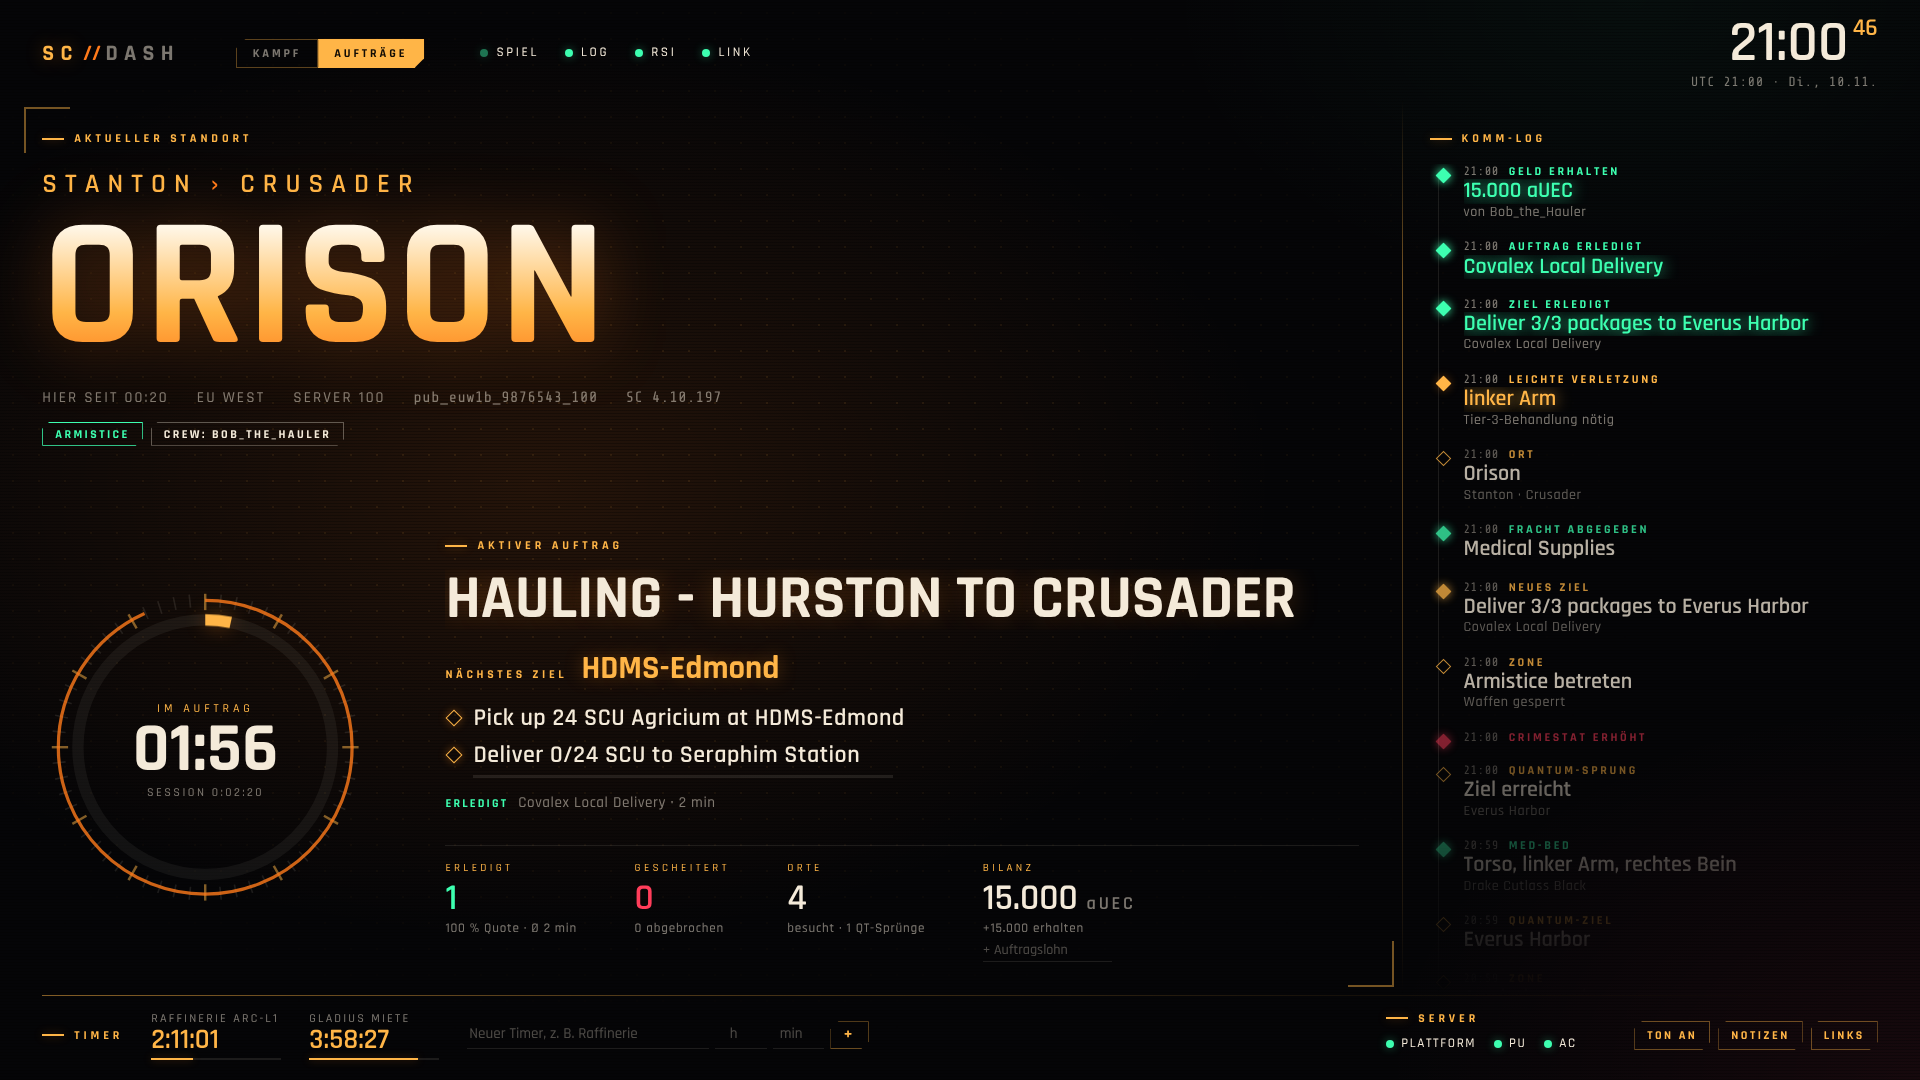
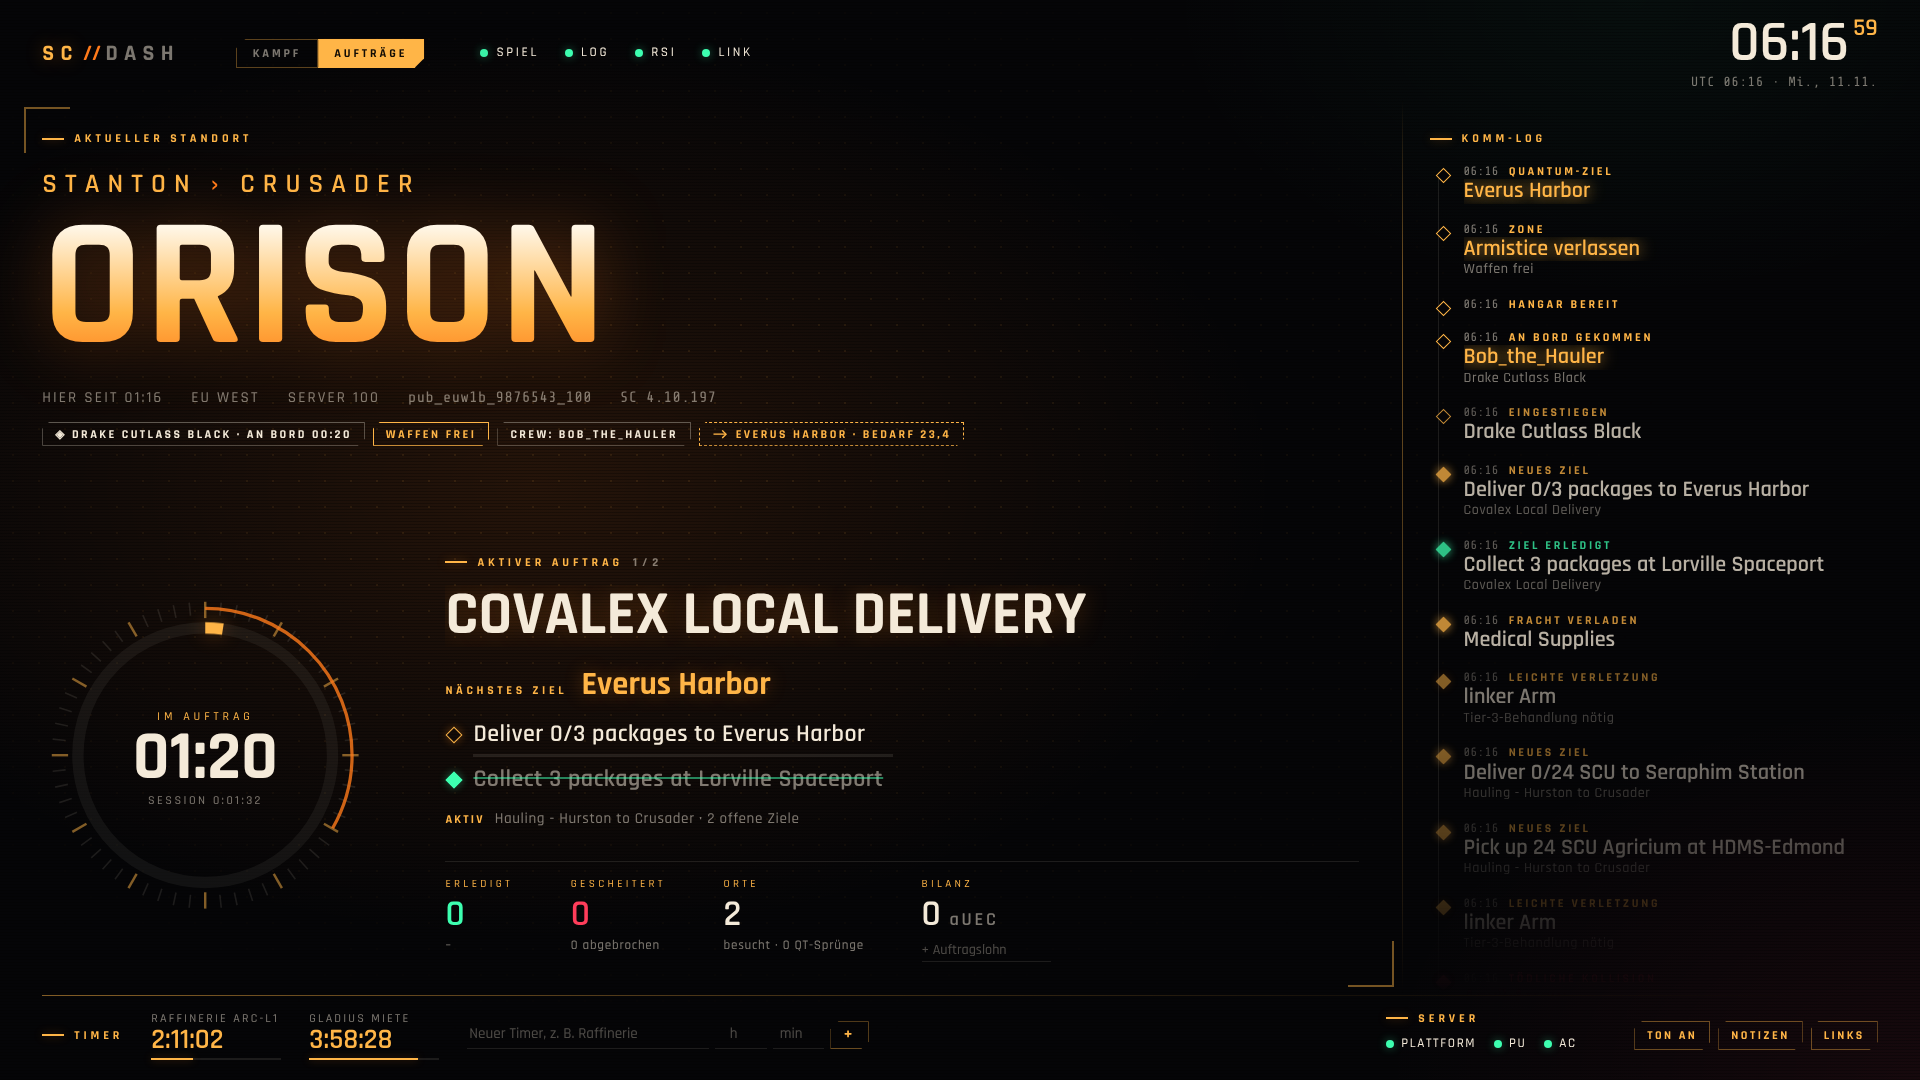
Ship view: time aboard, quantum fuel estimate, ship from quantum lines
- Ship pill shows how long you have been aboard
- Quantum target pill shows the game's fuel estimate for the planned
  route ("fuel estimate" in CalculateRoute lines, seen in the real 4.10
  log); the estimates of jumps actually flown are summed per session
- Quantum lines name the ship - used as a fallback when the boarding
  notification was missed (dashboard started mid-flight, flying as crew)
- README: section on what is not possible (no live-data interface) and
  why memory reading / screen capture are deliberately not used
- Tests against the real log: 64.7 fuel for the four flown jumps, the
  planned-but-not-flown route is not counted

Claude-Session: https://claude.ai/code/session_015RSy9xrrzgvyS66oyxrLiS

diff --git a/scdash/web/app.js b/scdash/web/app.js
@@ -262,8 +262,18 @@
     setText(e, text || "");
     setClass(e, cls || "");
   }
+  const fuelFmt = new Intl.NumberFormat("de-DE", { minimumFractionDigits: 1, maximumFractionDigits: 1 });
+
+  /** Ship name plus how long we have been aboard (updated by the 1 s tick). */
+  function shipPill(now) {
+    const nav = st.nav;
+    const since = parseTs(nav.ship_since);
+    const aboard = isFinite(since) ? " · an Bord " + short(sessionNow(now) - since) : "";
+    pill("p-ship", nav.ship ? "◈ " + nav.ship + aboard : "", "ship");
+  }
+
   function renderPills(nav) {
-    pill("p-ship", nav.ship ? "◈ " + nav.ship : "", "ship");
+    shipPill(Date.now() + skew);
     pill("p-arm", nav.armistice === true ? "Armistice" : nav.armistice === false ? "Waffen frei" : "",
       nav.armistice ? "ok" : "warn");
     pill("p-mon", nav.monitored === true ? "Überwacht" : nav.monitored === false ? "Unüberwacht" : "",
@@ -272,7 +282,8 @@
     pill("p-jur", nav.jurisdiction || "", nav.jurisdiction && nav.jurisdiction.toLowerCase() === "ungoverned" ? "bad" : "");
     pill("p-restricted", nav.restricted ? "Sperrgebiet" : "", "bad");
     pill("p-private", nav.private ? "Privatgelände" : "", "warn");
-    pill("p-qt", nav.quantum_target ? "⟶ " + nav.quantum_target : "", "qt");
+    const need = nav.quantum_fuel ? ` · Bedarf ${fuelFmt.format(nav.quantum_fuel)}` : "";
+    pill("p-qt", nav.quantum_target ? "⟶ " + nav.quantum_target + need : "", "qt");
   }
 
   // ---------------------------------------------------------------- missions
@@ -355,7 +366,8 @@
     const avg = durs.length ? ` · Ø ${mins(durs.reduce((a, b) => a + b, 0) / durs.length)}` : "";
     setText($("ms-rate"), total ? `${Math.round((k.missions_completed / total) * 100)} % Quote${avg}` : "–");
     setText($("ms-places"), String(k.places));
-    setText($("ms-jumps"), `besucht · ${k.quantum_jumps} QT-Sprünge`);
+    const burned = k.quantum_fuel_used ? ` · ${fuelFmt.format(k.quantum_fuel_used)} QT-Treibstoff` : "";
+    setText($("ms-jumps"), `besucht · ${k.quantum_jumps} QT-Sprünge${burned}`);
     renderEarnings();
   }
 
@@ -516,6 +528,7 @@
         $("m-arc-sec").style.strokeDasharray = `${((sec % 60) / 60) * 1000} 1000`;
       }
 
+      shipPill(now);
       const since = parseTs(s.location_since);
       setText($("loc-since"), isFinite(since) && s.location ? "Hier seit " + short(ref - since) : "");
       const ld = s.last_death;

diff --git a/scdash/state.py b/scdash/state.py
@@ -126,6 +126,9 @@ class DashboardState:
         self._jur_left: Dict[str, str] = {}
         self.quantum_target: Optional[str] = None
         self._qt_location: Optional[Dict[str, Optional[str]]] = None  # where a real-place jump ends
+        self.quantum_fuel: Optional[float] = None   # the game's estimate for the planned route
+        self.quantum_fuel_used = 0.0                # sum of the estimates of the jumps actually made
+        self.ship_since: Optional[str] = None
         self.game_version: Optional[str] = None
 
     def _touch(self) -> None:
@@ -224,7 +227,7 @@ class DashboardState:
         self._died(ev.ts)
         self.ship = None
         self._ship_from_channel = False
-        self.quantum_target = self._qt_location = None
+        self.quantum_target = self._qt_location = self.quantum_fuel = None
         self.open_injuries = []
         self.crew = []
         self.last_death = {"ts": ev.ts, "cause": cause, "who": who, "where": where}
@@ -250,7 +253,7 @@ class DashboardState:
             self.alive_since = ev.ts  # time in the menus should not count as "alive"
             self.armistice = self.monitored = self.jurisdiction = self.ship = None
             self.crew = []
-            self.quantum_target = self._qt_location = None
+            self.quantum_target = self._qt_location = self.quantum_fuel = None
             self.restricted = self.private = None
             self._push(ev, "info", "Shard beigetreten", shard_region(self.shard) or "", self.shard, feeds=BOTH)
         elif ev.kind == "location":
@@ -300,24 +303,37 @@ class DashboardState:
             # us which ship we are in, leaving the seat does not mean leaving the ship.
             if d["entering"]:
                 if not self._ship_from_channel and d["vehicle"] != self.ship:
-                    self.ship = d["vehicle"]
+                    self.ship, self.ship_since = d["vehicle"], ev.ts
                     self._push(ev, "nav", "Pilotensitz", self.ship, feeds=BOTH)
             elif not self._ship_from_channel and d["vehicle"] == self.ship:
                 self.ship = None
         elif ev.kind == "quantum":
+            # Quantum lines name the ship: a fallback when the boarding notification was missed
+            # (dashboard started late, flying as crew).
+            if d.get("ship") and not self.ship:
+                self.ship, self._ship_from_channel, self.ship_since = d["ship"], False, ev.ts
+                self._push(ev, "nav", "Im Schiff", self.ship, feeds=BOTH)
+            if d["phase"] == "route":
+                self.quantum_fuel = d["fuel"]
+                return
             if d["phase"] in ("target", "fuel"):
                 if d["phase"] == "fuel" and self.quantum_target:
                     return  # fuel estimate for a target we already know
                 target = self._describe_qt(d)
                 self._qt_location = locate_place(d["name"]) if d["kind"] == "place" else None
                 if target != self.quantum_target:
+                    self.quantum_fuel = None  # a new estimate follows with the route calculation
                     self.quantum_target = target
                     if target:
                         self._push(ev, "nav", "Quantum-Ziel", target, feeds=(MISSION,))
             else:
                 self.quantum_jumps += 1
-                self._push(ev, "nav", "Quantum-Sprung", "Ziel erreicht", self.quantum_target or "", feeds=(MISSION,))
-                self.quantum_target = None
+                fuel = self.quantum_fuel or 0.0
+                self.quantum_fuel_used += fuel
+                self._push(ev, "nav", "Quantum-Sprung", "Ziel erreicht",
+                           self._detail(self.quantum_target, f"{fuel:.1f} Treibstoff".replace(".", ",") if fuel else None),
+                           feeds=(MISSION,))
+                self.quantum_target = self.quantum_fuel = None
                 if self._qt_location:
                     self._set_location(ev, self._qt_location)
                 self._qt_location = None
@@ -386,7 +402,7 @@ class DashboardState:
             if self._within(self._last_disconnect_ts, ev.ts, 30):
                 return
             self._last_disconnect_ts = ev.ts
-            self.quantum_target = self._qt_location = None
+            self.quantum_target = self._qt_location = self.quantum_fuel = None
             if code in BENIGN_NET:
                 text = "wegen Inaktivität" if code == "30028" else "Server verlassen oder gewechselt"
                 self._push(ev, "info", "Verbindung getrennt", text, feeds=BOTH)
@@ -543,7 +559,7 @@ class DashboardState:
             if not d.get("is_ship"):
                 self._push(ev, "comms", "Kanal", d["text"], feeds=(MISSION,))
             elif cat == "channel_joined":
-                self.ship, self._ship_from_channel = subject, True
+                self.ship, self._ship_from_channel, self.ship_since = subject, True, ev.ts
                 self._push(ev, "nav", "Eingestiegen", subject, feeds=BOTH)
             elif self.ship == subject or not self._ship_from_channel:
                 self.ship, self._ship_from_channel = None, False
@@ -672,6 +688,7 @@ class DashboardState:
                     "missions_abandoned": self.missions_abandoned,
                     "places": len(self.places),
                     "quantum_jumps": self.quantum_jumps,
+                    "quantum_fuel_used": round(self.quantum_fuel_used, 1),
                     "incaps": self.incaps,
                     "injuries": self.injuries,
                     "medbed": self.medbed,
@@ -693,7 +710,9 @@ class DashboardState:
                     "armistice": self.armistice,
                     "monitored": self.monitored,
                     "jurisdiction": self.jurisdiction,
+                    "ship_since": self.ship_since if self.ship else None,
                     "quantum_target": self.quantum_target,
+                    "quantum_fuel": self.quantum_fuel if self.quantum_target else None,
                     "crew": list(self.crew),
                     "restricted": self.restricted,
                     "private": self.private,

diff --git a/scdash/parser.py b/scdash/parser.py
@@ -47,6 +47,10 @@ _OBJECTIVE_UPSERT = re.compile(
 )
 _QT_TARGET = re.compile(r"<Player Selected Quantum Target[^>]*>.*?selected point (?P<target>\S+) as their destination")
 _QT_FUEL = re.compile(r"<Player Requested Fuel to Quantum Target[^>]*>.*?destination (?P<target>\S+)")
+# Real 4.10 line: ...|CSCItemNavigation::CalculateRoute|Successfully calculated route to <target> fuel estimate 16.858223
+_QT_ROUTE = re.compile(r"Successfully calculated route to (?P<target>\S+) fuel estimate (?P<fuel>[\d.]+)")
+# All quantum lines name the ship they come from: "| NOT AUTH | RSI_Aurora_Mk2_920601993986[920601993986]|"
+_QT_SHIP = re.compile(r"\| (?:NOT )?AUTH \| (?P<ship>[A-Za-z][A-Za-z0-9_]+?)_\d{6,}\[")
 _QT_ROUTE_START = re.compile(r"Projected Start Location is (?P<start>.+?) for route to destination")
 _QT_ARRIVED = re.compile(r"<Quantum Drive Arrived|Quantum Drive has arrived at final destination")
 
@@ -88,7 +92,7 @@ _VERSION = re.compile(r"ProductVersion: (?P<v>\d+\.\d+(?:\.\d+)?)")
 _INTERESTING = re.compile(
     r"Actor Death|Vehicle Destruction|RequestLocationInventory|<Join PU>|Login Success|"
     r"AccountLoginCharacterStatus_Character|SHUDEvent_OnNotification|<EndMission>|<MissionEnded>|"
-    r"<ObjectiveUpserted>|Vehicle Control Flow|Quantum Target|Quantum Drive|Projected Start Location|"
+    r"<ObjectiveUpserted>|Vehicle Control Flow|Quantum Target|Quantum Drive|Projected Start Location|Successfully calculated route|"
     r"ActorState\] (?:Dead|Corpse)|<Corpse>|Logged an incap|MED BED HEAL|Fatal ?Collision|"
     r"StatePlace::DoPlace|BuyRequest|cause=\d+ reason=\"|"
     r"SystemQuit|CSystem::Quit|ProductVersion"
@@ -394,17 +398,23 @@ def parse_line(line: str) -> Optional[LogEvent]:
             return None
         return LogEvent("objective_state", ts, {"mission_id": _id(m.group("mid")), "objective_id": m.group("oid"), "state": state})
 
+    ship = _QT_SHIP.search(line)
+    qt_ship = ship_name(ship.group("ship")) if ship else None
+    m = _QT_ROUTE.search(line)
+    if m:
+        return LogEvent("quantum", ts, {"phase": "route", "fuel": float(m.group("fuel")), "ship": qt_ship,
+                                        **quantum_destination(m.group("target"))})
     m = _QT_TARGET.search(line)
     if m:
-        return LogEvent("quantum", ts, {"phase": "target", **quantum_destination(m.group("target"))})
+        return LogEvent("quantum", ts, {"phase": "target", "ship": qt_ship, **quantum_destination(m.group("target"))})
     m = _QT_ROUTE_START.search(line)
     if m:
         return LogEvent("route_start", ts, {"start": m.group("start").strip()})
     m = _QT_FUEL.search(line)
     if m:
-        return LogEvent("quantum", ts, {"phase": "fuel", **quantum_destination(m.group("target"))})
+        return LogEvent("quantum", ts, {"phase": "fuel", "ship": qt_ship, **quantum_destination(m.group("target"))})
     if _QT_ARRIVED.search(line):
-        return LogEvent("quantum", ts, {"phase": "arrived", "name": None, "kind": None})
+        return LogEvent("quantum", ts, {"phase": "arrived", "name": None, "kind": None, "ship": qt_ship})
 
     m = _VEHICLE_CONTROL.search(line)
     if m:

diff --git a/tests/test_real_log.py b/tests/test_real_log.py
@@ -112,6 +112,32 @@ class RealLogTests(unittest.TestCase):
         self.assertEqual(s["session"]["server"], "450")
         self.assertEqual(s["health"]["injuries"], [])
 
+    def test_ship_and_quantum_fuel_from_real_lines(self):
+        s = self.read_all_at_once()
+        # four jumps were made; the game's fuel estimates for them: 16.858 + 18.180 + 17.700 + 11.982.
+        # A fifth route (0.66) was planned at 16:52 but never flown and must not be counted.
+        self.assertAlmostEqual(s["stats"]["quantum_fuel_used"], 64.7, places=1)
+        feed = list(reversed(s["feeds"]["mission"]))
+        jumps = [e["detail"] for e in feed if e["title"] == "Quantum-Sprung"]
+        self.assertEqual(jumps[0], "Auftragsziel · Clear View Emergency Shelter · 16,9 Treibstoff")
+        self.assertEqual(jumps[-1], "New Babbage · 12,0 Treibstoff")
+        # boarding is known from the channel notification, with its time
+        boarded = [e for e in feed if e["title"] == "Eingestiegen"]
+        self.assertEqual(boarded[0]["ts"], "2026-11-10T16:28:41.844Z")
+        self.assertIsNone(s["nav"]["ship_since"])  # left the ship before quitting
+
+    def test_ship_from_quantum_lines_when_boarding_was_missed(self):
+        """Dashboard started mid-flight: the first quantum line still tells us the ship."""
+        start = self.raw.index(b"<2026-11-10T16:30:54")
+        with open(self.path, "wb") as fh:
+            fh.write(self.raw[:200] + b"\r\n" + self.raw[start:self.raw.index(b"<2026-11-10T16:31:30")])
+        state = DashboardState()
+        LogWatcher(lambda: self.path, state).poll()
+        nav = state.snapshot()["nav"]
+        self.assertEqual(nav["ship"], "RSI Aurora Mk2")
+        self.assertEqual(nav["ship_since"], "2026-11-10T16:30:54.148Z")
+        self.assertAlmostEqual(nav["quantum_fuel"], 16.858, places=2)
+
     def test_multiline_notifications_are_joined(self):
         asm, texts = LineAssembler(), []
         for raw in self.raw.split(b"\n"):

diff --git a/scdash/demo.py b/scdash/demo.py
@@ -74,6 +74,8 @@ def mission_script(c: int) -> list:
         _N % ("Hangar Request Completed", _ZERO, ""),
         _N % ("Leaving Armistice Zone - Caution Advised", _ZERO, ""),
         _QT_SET % "EverusHarbor_LOC",
+        "<{ts}> [Notice] <Calculate Route> [ItemNavigation][CL][1] | NOT AUTH | DRAK_Cutlass_Black_{n}[{n}]|CSCItemNavigation::CalculateRoute|Successfully calculated route to EverusHarbor_LOC fuel estimate 23.417050 [Team_CGP4][QuantumTravel]",
+        _N % ("Entered Monitored Space", _ZERO, ""),
         _QT_DONE,
         _LOC % "RR_HUR_LEO",
         _N % ("Entering Armistice Zone - Combat Prohibited", _ZERO, ""),

diff --git a/README.md b/README.md
@@ -67,7 +67,10 @@ Spiel ohnehin schreibt. Damit gibt es keinen Konflikt mit Easy Anti-Cheat.
 - **Quantum-Ziel**, solange ein Sprung geplant ist – lesbar statt interner IDs: Städte, Raststationen
   (*CRU-L4*), *Markierter Navpunkt*, *Partymitglied* und bei Auftragsmarkern der Ort aus dem aktiven
   Auftragsziel (*Auftragsziel · Clear View Emergency Shelter*)
-- **Aktuelles Schiff** und **Crew an Bord** (wer zu dir ins Schiff gekommen ist)
+- **Aktuelles Schiff mit Zeit an Bord** und **Crew an Bord** (wer zu dir ins Schiff gekommen ist).
+  Der Schiffsname kommt notfalls auch aus den Quantum-Zeilen, falls die Einsteige-Meldung fehlt.
+- **Treibstoffbedarf der geplanten Quantum-Route** (Schätzung des Spiels) direkt am Quantum-Ziel,
+  dazu die Summe der geflogenen Sprünge in der Session
 - **Server-Nummer** neben der Region – praktisch, um mit Freunden auf denselben Server zu kommen
 - **Signaltöne** (Taste `T` oder Knopf „Ton an/aus“): kurzer Ton bei Tod, K.O., erledigtem/gescheitertem
   Auftrag, Verbindungsfehler und fertigem Timer – damit du es merkst, während du ins Spiel schaust
@@ -202,6 +205,7 @@ als Testfall in `tests/fixtures/`).
 | Zonen | Meldungen *Armistice Zone*, *Monitored Space*, *… Jurisdiction* | ✅ |
 | Schiff (ein-/aussteigen) | Meldung `You have joined channel '<Schiff> : <Pilot>'` | ✅ |
 | Quantum-Ziele & Sprünge | `<Player Selected Quantum Target …>`, `<Player Requested Fuel to Quantum Target …>`, `<Quantum Drive Arrived …>` | ✅ |
+| Treibstoffbedarf der Route | `…CalculateRoute|Successfully calculated route to … fuel estimate 16.858223` | ✅ |
 | Quantum blockiert | Meldung *Quantum Travel: Your destination is obstructed …* | ✅ |
 | Spiel beendet | `<SystemQuit>` | ✅ |
 | Session-Start | Zeitstempel der ersten Log-Zeile | ✅ |
@@ -278,6 +282,18 @@ Ob das Spiel läuft, wird zusätzlich alle 15 s über die Prozessliste geprüft.
 > Das Log-Format ist nicht offiziell dokumentiert und ändert sich gelegentlich mit Patches. Wenn
 > etwas nicht (mehr) erkannt wird, bitte ein Issue mit der betreffenden Log-Zeile öffnen. Meldungen,
 > die SC-Dash nicht einordnen kann, erscheinen trotzdem im Komm-Log.
+
+---
+
+## Was nicht geht – und warum
+
+Star Citizen hat **keine Schnittstelle** für Live-Daten. Schilde, Hüllenschaden, Tankinhalt,
+Geschwindigkeit, Munition oder Ladungsmenge stehen nicht in der `Game.log` und sind von außen nicht
+erlaubt abrufbar. Alle „Star Citizen APIs“ liefern nur feste Daten (Schiffswerte, Handelspreise).
+Andere Zweitbildschirm-Tools lesen ebenfalls die `Game.log` oder schicken nur Tastendrücke.
+
+SC-Dash liest bewusst **nicht** den Arbeitsspeicher des Spiels aus (genau das soll Easy Anti-Cheat
+verhindern – Risiko für den Account) und macht **keine** Bildschirmerkennung (kostet dauerhaft Leistung).
 
 ---
 

diff --git a/CHANGELOG.md b/CHANGELOG.md
@@ -16,6 +16,8 @@ Schwerpunkt: Mehrwert beim Spielen – beide Modi zeigen mehr von dem, was man w
   nur der Auftragslohn wird noch von Hand eingetragen
 - **Kampf & Überleben:** „Zustand“ mit offenen Verletzungen und nötiger Med-Bed-Stufe (bis zur Behandlung)
 - **Crew an Bord** und **Server-Nummer** in beiden Modi
+- **Schiff:** Zeit an Bord, Treibstoffbedarf der geplanten Quantum-Route und Summe der geflogenen
+  Sprünge (aus `fuel estimate` der echten Log); Schiffsname notfalls aus den Quantum-Zeilen
 - **Signaltöne** (abschaltbar, Taste `T`) bei Tod, K.O., Auftragsende, Verbindungsfehler und Timer;
   fertige Timer werden zusätzlich groß eingeblendet
 - **Verbindungsfehler** mit Klartext (30000 Zeitüberschreitung, 30013 Serverabsturz …); normale
